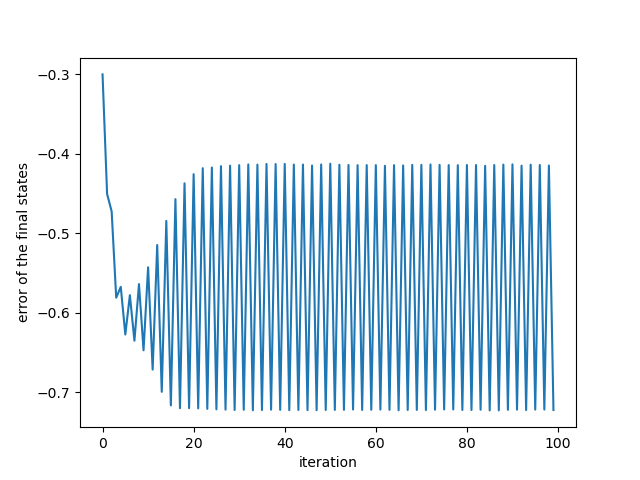
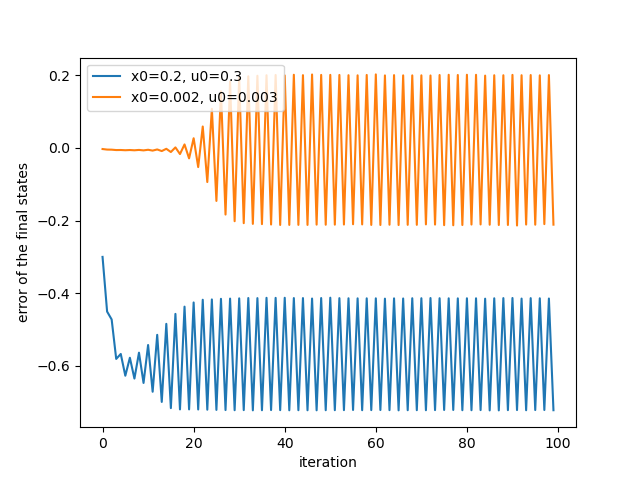
Delta in diff_ should be studied more

diff --git a/main.py b/main.py
@@ -4,7 +4,7 @@ import matplotlib.pyplot as plt
 np.random.seed(0)
 
 class System:
-    def __init__(self, loss, horizon, system, x0, xN):
+    def __init__(self, loss, horizon, sys, x0, xN):
         self.loss = loss
         self.horizon = horizon
         # self.inputs = np.random.random(horizon-1)
@@ -13,7 +13,7 @@ class System:
         self.states[0] = x0
         self.state_dest = xN
         self.delta_states = np.zeros(horizon)
-        self.system = system
+        self.sys = sys
         self.sum_count = 0
 
     def get_states(self):
@@ -42,7 +42,7 @@ class System:
 
     def forward(self):
         for i in range(1, len(self.states)):
-            state = self.system(self.states[i-1], self.inputs[i-1])
+            state = self.sys(self.states[i-1], self.inputs[i-1])
             self.delta_states[i] = self.states[i] - state
             self.states[i] = state
     
@@ -52,24 +52,26 @@ class System:
         Vxx = self.diff_xx(self.loss, self.states[-1],0)
         for i in range(len(self.states)-2, -1, -1):
             Qx = self.diff_x(self.loss, self.states[i], self.inputs[i]) \
-                + self.diff_x(self.system, self.states[i], self.inputs[i]) \
+                + self.diff_x(self.sys, self.states[i], self.inputs[i]) \
                 * Vx
             Qu = self.diff_u(self.loss, self.states[i], self.inputs[i]) \
-                + self.diff_u(self.system, self.states[i], self.inputs[i]) \
+                + self.diff_u(self.sys, self.states[i], self.inputs[i]) \
                 * Vx
             Qxx = self.diff_xx(self.loss, self.states[i], self.inputs[i]) \
-                + self.diff_x(self.system, self.states[i], self.inputs[i])**2 \
+                + self.diff_x(self.sys, self.states[i], self.inputs[i])**2 \
                 * Vxx \
-                + Vx * self.diff_xx(self.system, self.states[i], self.inputs[i])
+                + Vx * self.diff_xx(self.sys, self.states[i], self.inputs[i])
             Qux = self.diff_ux(self.loss, self.states[i], self.inputs[i]) \
-                + self.diff_u(self.system, self.states[i], self.inputs[i])**2 \
+                + self.diff_u(self.sys, self.states[i], self.inputs[i])**2 \
                 * Vxx \
-                + Vx * self.diff_ux(self.system, self.states[i], self.inputs[i])
+                + Vx * self.diff_ux(self.sys, self.states[i], self.inputs[i])
             Quu = self.diff_uu(self.loss, self.states[i], self.inputs[i]) \
-                + self.diff_u(self.system, self.states[i], self.inputs[i])**2 \
+                + self.diff_u(self.sys, self.states[i], self.inputs[i])**2 \
                 * Vxx \
-                + Vx * self.diff_uu(self.system, self.states[i], self.inputs[i])
+                + Vx * self.diff_uu(self.sys, self.states[i], self.inputs[i])
             
+            # k = -Qu/(Quu+1e-10)
+            # K = -Qux/(Quu+1e-10)
             k = -Qu/Quu
             K = -Qux/Quu
             Vx = Qx - K*Quu*k
@@ -99,14 +101,20 @@ def system(x, u):
 
 
 if __name__ == "__main__":
-    wow = System(loss, 10, system, 0.2, 0.3)
-    errors = []
+    sys2 = System(loss, 10, system, 0.2, 0.3)
+    sys3 = System(loss, 10, system, 0.002, 0.003)
+    errors2 = []
+    errors3 = []
     for i in range(100):
-        wow.forward()
-        errors.append(wow.error())
-        wow.backward()
-    print(errors)
-    plt.plot(errors)
+        sys2.forward()
+        sys3.forward()
+        errors2.append(sys2.error())
+        errors3.append(sys3.error())
+        sys2.backward()
+        sys3.backward()
+    plt.plot(errors2, label='x0=0.2, u0=0.3')
+    plt.plot(errors3, label='x0=0.002, u0=0.003')
     plt.ylabel('error of the final states')
     plt.xlabel('iteration')
+    plt.legend()
     plt.show()
